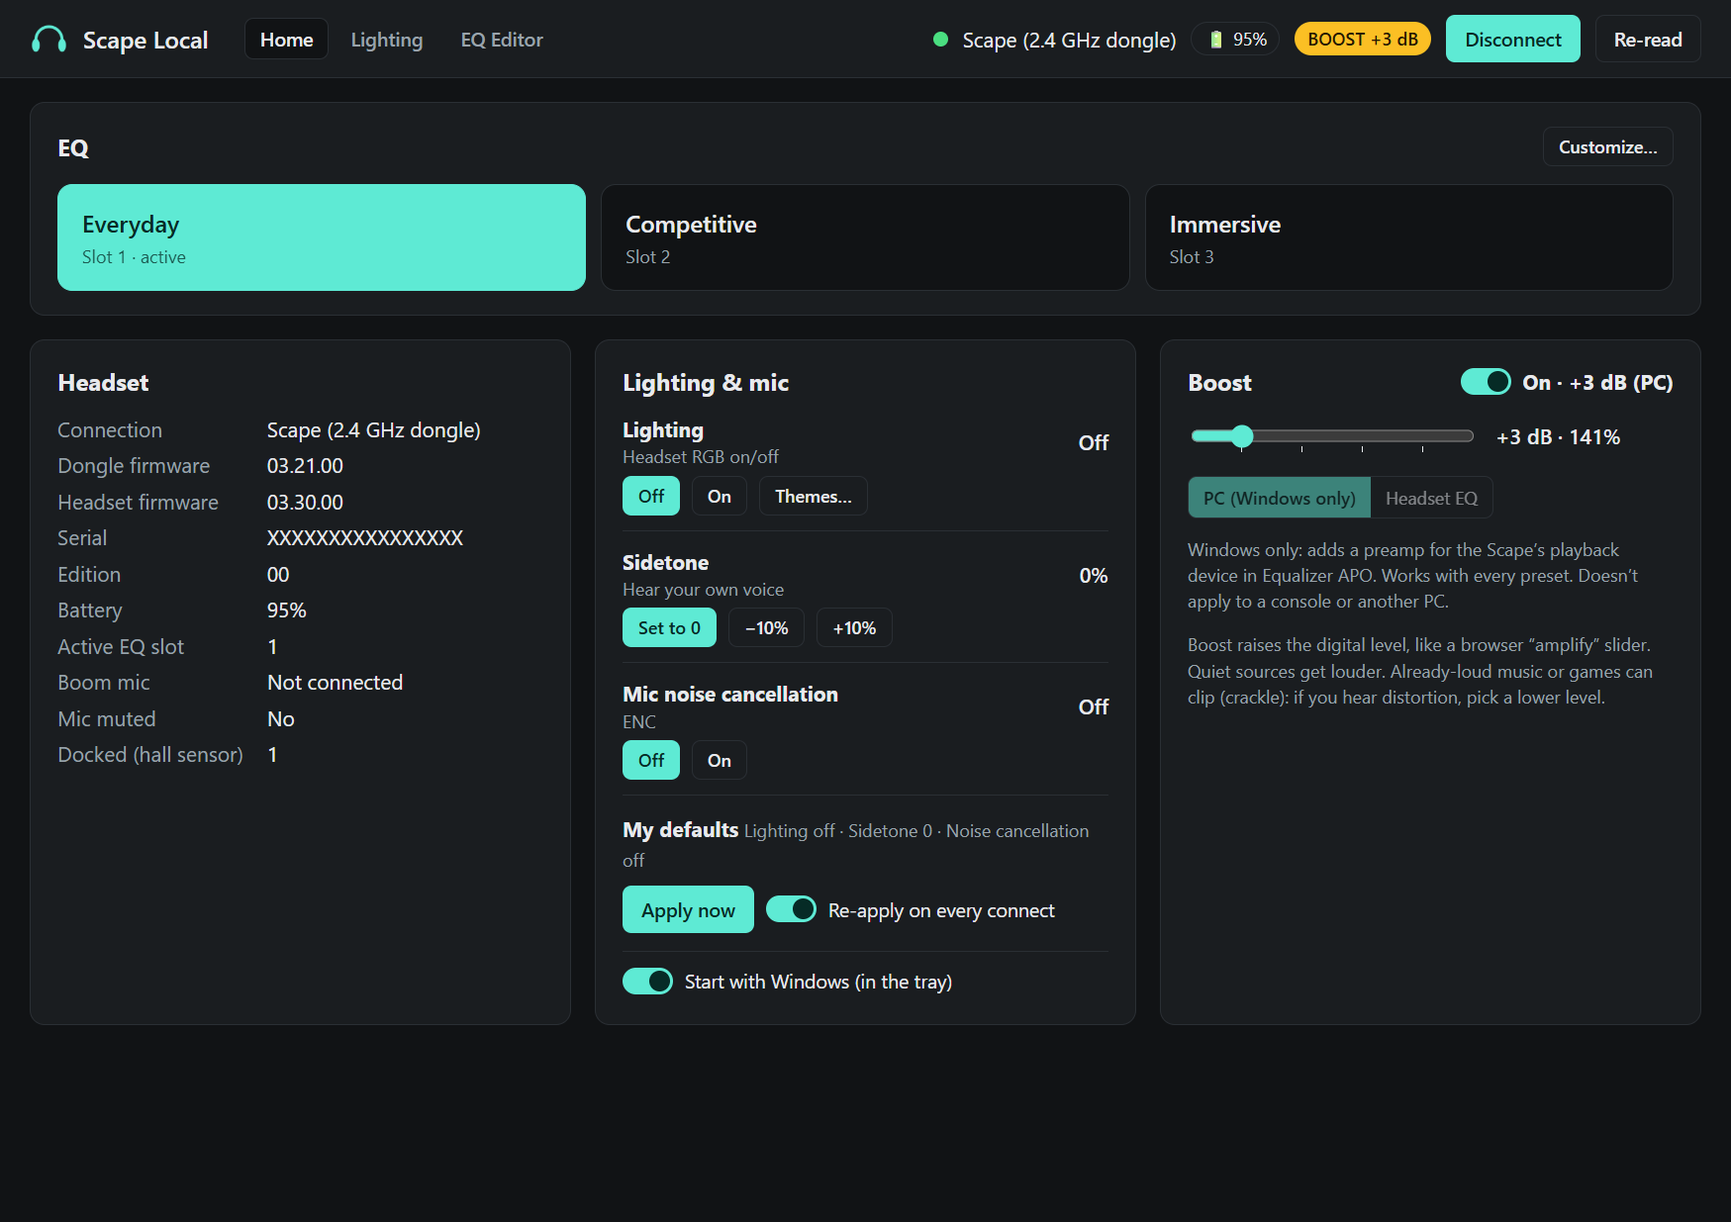
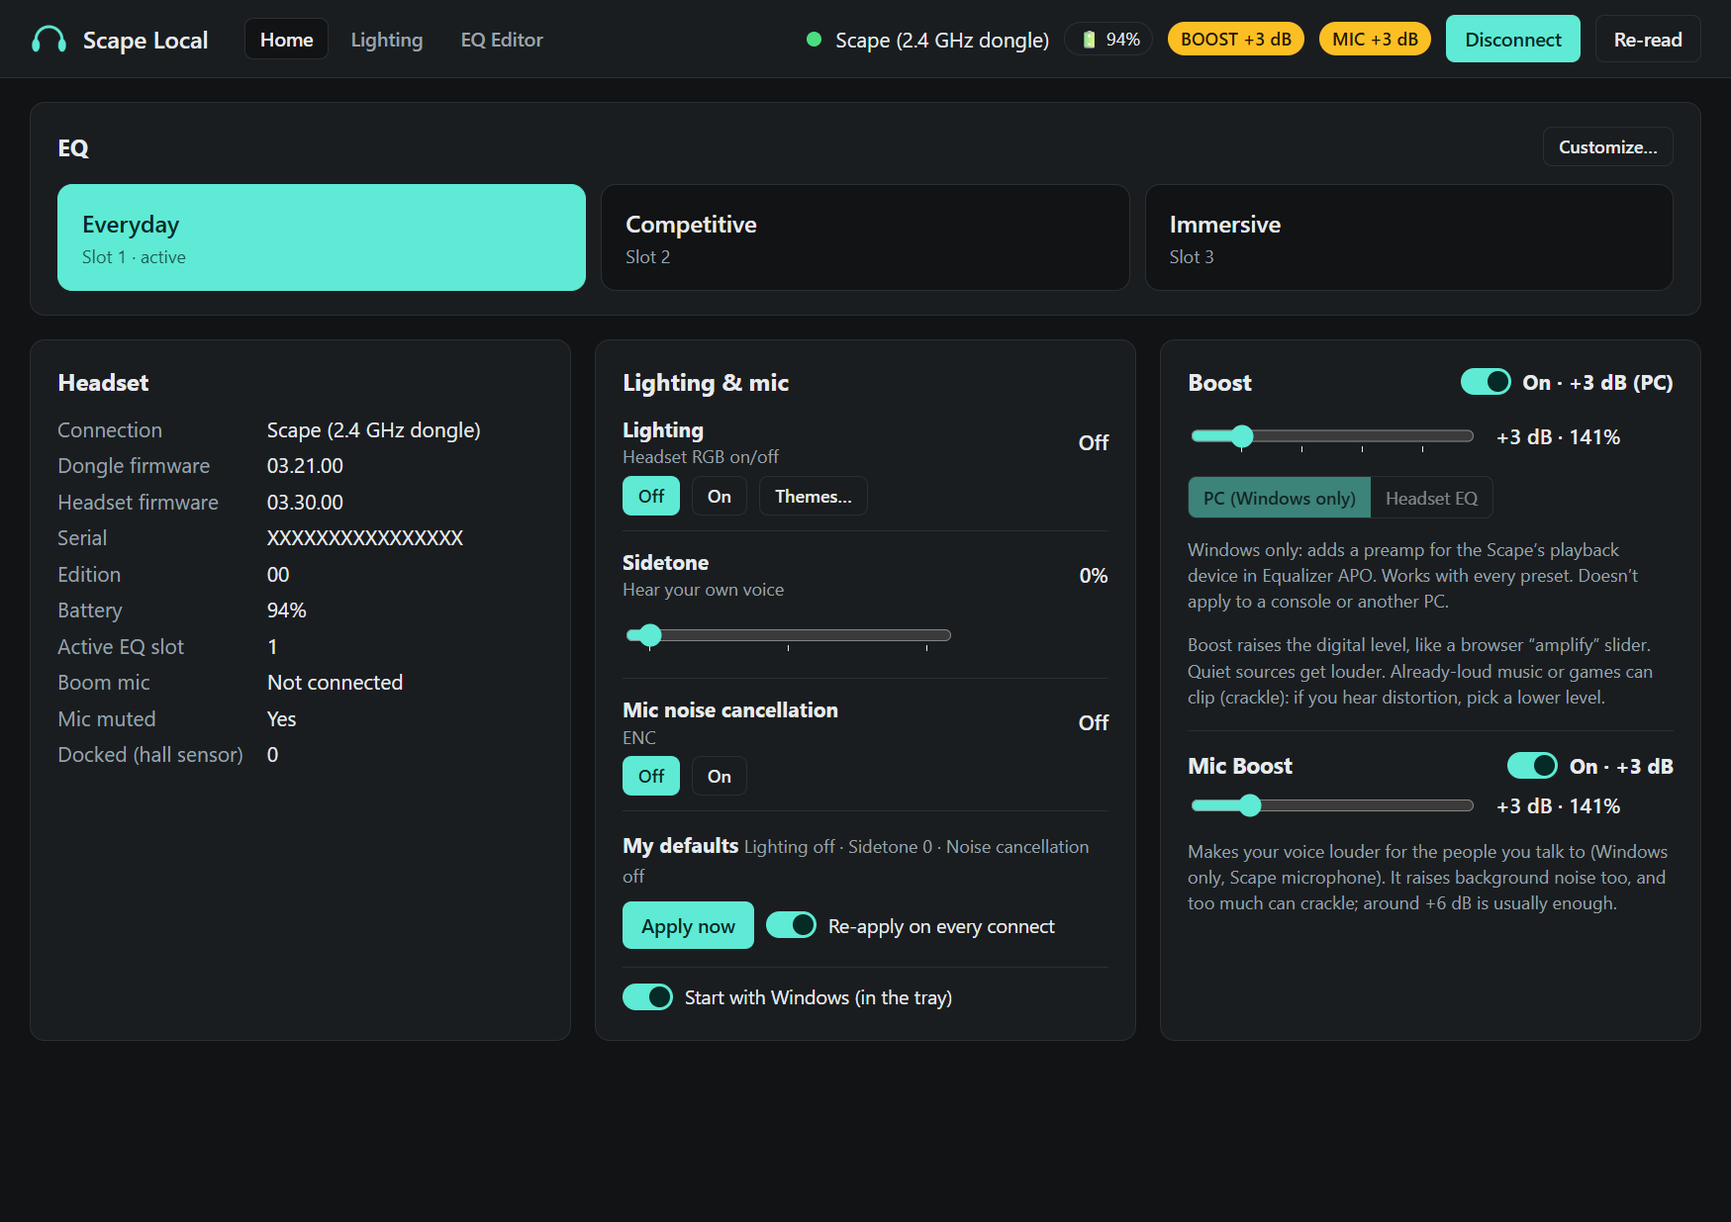
Mic Boost and a sidetone slider (v0.3.0)
- Mic Boost (+1..+12 dB): Equalizer APO preamp scoped to the Scape microphone,
  in the Boost card. Speaker and mic levels share one managed file with tagged
  sections; config.txt is restored byte for byte when both are off. 0.2.x boost
  files are read as speaker Boost.
- Sidetone buttons replaced with a 0-100 % slider (10 % steps, applied on release),
  like Adjust Pro. Verified on hardware: 0 -> 50 % = raw 75, back to 0.
- Docs: Mic Boost setup (tick the Scape mic on APO's Capture devices tab).
- 72 tests.

diff --git a/app/renderer/js/app.js b/app/renderer/js/app.js
@@ -1,7 +1,7 @@
 import { decodeEqCode, encodeEqCode, validateBands, describeBands, tidy, FILTER_LABELS, MAX_BANDS, LIMITS } from './eqcode.js';
 import { responseDb, logFreqs, coefficients, magnitudeDb } from './biquad.js';
 import { ScapeDevice } from './hid.js';
-import { cmd, hex, parse, ALLOWED, buildEqWrite, SIDETONE, BlockedCommandError, sidetoneStepPlan, sidetonePercent } from './protocol.js';
+import { cmd, hex, parse, ALLOWED, buildEqWrite, SIDETONE, BlockedCommandError, sidetonePlanTo } from './protocol.js';
 import { initLighting } from './lighting-ui.js';
 import { applyHeadsetBoost, headsetBoostBlocker, isBoostOf, isBoostBand, stripHeadsetBoost, HEADSET_MAX_DB, dbToPercent } from './boost.js';
 
@@ -100,7 +100,7 @@ function setBusy(b) {
 function updateWriteButtons() {
   const can = !!state.device && state.readDone && !state.busy && !!state.hs;
   const valid = validateBands(state.bands).length === 0;
-  document.querySelectorAll('[data-act], #btnApplyDefaults, .slot button[data-write]').forEach((b) => {
+  document.querySelectorAll('[data-act], #btnApplyDefaults, #rngSidetone, .slot button[data-write]').forEach((b) => {
     b.disabled = !can || (b.dataset.write === 'eq' && !valid);
   });
   $('btnRefresh').disabled = !state.device || state.busy;
@@ -509,7 +509,8 @@ function renderDefaults() {
     });
   mark('[data-act=lights]', (b) => (b.dataset.on === '1') === hs.lightsOn);
   mark('[data-act=enc]', (b) => (b.dataset.on === '1') === hs.encOn);
-  mark('[data-act=sidetone0]', () => hs.sidetoneRaw === 0);
+  const st = $('rngSidetone');
+  if (hs && hs.sidetonePct != null && document.activeElement !== st) st.value = String(hs.sidetonePct);
   $('chkEnforce').checked = state.enforce;
   updateWriteButtons();
   lighting?.render();
@@ -680,17 +681,6 @@ document.querySelectorAll('[data-act]').forEach((b) =>
       let res;
       if (act === 'lights') res = await d.write([cmd.lights(on)], `Turn headset lighting ${on ? 'on' : 'off'}`);
       else if (act === 'enc') res = await d.write([cmd.enc(on)], `Turn mic noise cancellation ${on ? 'on' : 'off'}`);
-      else if (act === 'sidetoneUp' || act === 'sidetoneDown') {
-        const raw = (await d.readState()).sidetoneRaw;
-        const plan = sidetoneStepPlan(raw, act === 'sidetoneUp' ? 1 : -1);
-        if (plan.target === raw) return;
-        if (plan.target === 0) await sidetoneToZero(d, []);
-        else await d.write(plan.packets, `Sidetone → ${sidetonePercent(plan.target)}%`);
-        res = { cancelled: false };
-      } else if (act === 'sidetone0') {
-        await sidetoneToZero(d, []);
-        res = { cancelled: false };
-      }
       if (!res || res.cancelled) return;
       await new Promise((r) => setTimeout(r, 300));
       state.hs = await d.readState();
@@ -699,6 +689,24 @@ document.querySelectorAll('[data-act]').forEach((b) =>
     });
   }),
 );
+
+// Sidetone slider: applied when released (each change is a few relative volume packets).
+$('rngSidetone').addEventListener('input', (e) => ($('valSidetone').textContent = `${e.target.value}%`));
+$('rngSidetone').addEventListener('change', (e) => {
+  const pct = Number(e.target.value);
+  guarded(async (d) => {
+    const raw = (await d.readState()).sidetoneRaw;
+    const plan = sidetonePlanTo(raw, pct);
+    if (plan.target === 0) {
+      if (raw !== 0) await sidetoneToZero(d, []);
+    } else if (plan.packets.length) await d.write(plan.packets, `Sidetone → ${pct}%`);
+    await new Promise((r) => setTimeout(r, 300));
+    state.hs = await d.readState();
+    renderDevice();
+    renderDefaults();
+  });
+  e.target.blur();
+});
 
 $('btnApplyDefaults').addEventListener('click', () => applyDefaults());
 $('chkEnforce').addEventListener('change', async (e) => {
@@ -782,6 +790,7 @@ async function refreshApo() {
 }
 
 function renderBoost() {
+  renderMicBoost();
   const lv = boostActiveLevel();
   const on = lv != null;
   // badge
@@ -995,6 +1004,111 @@ rng.addEventListener('change', () => {
   if (boost.headset) setBoost(true, lv);
   else if (boost.apo?.active) livePcLevel(lv);
 });
+// ---------------------------------------------------------------------------
+// Mic Boost (Windows only: Equalizer APO preamp on the Scape's microphone)
+// ---------------------------------------------------------------------------
+const MIC_MAX_DB = 12;
+let micLevel = store.get('scape.micBoostLevel', 6);
+let micTimer = null;
+let micDragging = false;
+
+function micActive() {
+  return boost.apo?.micLevel || null;
+}
+function showMicValue(db) {
+  const out = $('micBoostValue');
+  out.textContent = `+${db} dB · ${dbToPercent(db)}%`;
+  out.classList.toggle('hot', db > 9);
+}
+function renderMicBoost() {
+  const lv = micActive();
+  const on = lv != null;
+  const a = boost.apo;
+  $('chkMicBoost').checked = on;
+  $('micBoostState').textContent = on ? `On · +${lv} dB` : 'Off';
+  const badge = $('micBadge');
+  badge.textContent = on ? `MIC +${lv} dB` : '';
+  badge.classList.toggle('hidden', !on);
+  if (!micDragging) {
+    $('rngMicBoost').value = String(on ? lv : micLevel);
+    showMicValue(on ? lv : micLevel);
+  }
+  const setup = $('micBoostSetup');
+  setup.classList.add('hidden');
+  let canEnable = true;
+  if (!host) {
+    canEnable = false;
+    setup.replaceChildren(el('span', {}, 'Mic Boost needs the desktop app (not available in the browser).'));
+    setup.classList.remove('hidden');
+  } else if (!a) canEnable = false;
+  else if (!a.installed || !a.micAttached || !a.micEndpoints?.length) {
+    canEnable = on; // allow turning off
+    const mic = a.micEndpoints?.find((e) => e.active) || a.micEndpoints?.[0];
+    setup.replaceChildren(
+      el('strong', {}, !a.installed ? 'Equalizer APO is not installed' : !mic ? 'No Scape microphone found in Windows' : 'Equalizer APO is not attached to the Scape microphone yet'),
+      el('ol', {},
+        !a.installed ? el('li', {}, 'Install Equalizer APO (the Scape Local installer offers it).') : null,
+        el('li', {}, 'In the Configurator, open the ', el('strong', {}, 'Capture devices'), ' tab and tick ', el('code', {}, mic ? `${mic.name} (${mic.iface})` : 'the Scape’s microphone'), '.'),
+        el('li', {}, 'Restart Windows when asked, then reopen this panel.'),
+      ),
+      el('div', { class: 'actions' }, el('button', { class: 'btn small ghost', onclick: refreshApo }, 'Check again')),
+    );
+    setup.classList.remove('hidden');
+  } else if (!a.writable) {
+    canEnable = false;
+    setup.replaceChildren(el('span', {}, `Can’t write to ${a.configDir}.`));
+    setup.classList.remove('hidden');
+  }
+  $('chkMicBoost').disabled = !canEnable;
+}
+
+/** All APO writes (speaker and mic) go through apoChain so they can't overwrite each other. */
+async function setMicBoost(on, level) {
+  clearTimeout(micTimer);
+  try {
+    const p = apoChain.then(() => host.apoSetMic(on ? level : 0));
+    apoChain = p.catch(() => {});
+    boost.apo = await p;
+    toast(on ? `Mic Boost +${level} dB on` : 'Mic Boost off');
+  } catch (err) {
+    toast(`Mic Boost: ${err.message}`, true);
+  } finally {
+    renderBoost();
+  }
+}
+function liveMicLevel(db) {
+  clearTimeout(micTimer);
+  micTimer = setTimeout(() => {
+    apoChain = apoChain.then(async () => {
+      if (!micActive()) return; // turned off meanwhile
+      try {
+        boost.apo = await host.apoSetMic(db);
+      } catch (err) {
+        toast(`Mic Boost: ${err.message}`, true);
+      }
+      renderBoost();
+    });
+  }, 120);
+}
+$('chkMicBoost').addEventListener('change', (e) => {
+  const on = e.target.checked;
+  e.target.checked = !on; // reflect the real state once it succeeded
+  setMicBoost(on, Number($('rngMicBoost').value));
+});
+const micRng = $('rngMicBoost');
+micRng.addEventListener('pointerdown', () => (micDragging = true));
+micRng.addEventListener('input', () => {
+  const lv = Math.min(MIC_MAX_DB, Number(micRng.value));
+  showMicValue(lv);
+  if (micActive()) liveMicLevel(lv);
+});
+micRng.addEventListener('change', () => {
+  micDragging = false;
+  micLevel = Number(micRng.value);
+  store.set('scape.micBoostLevel', micLevel);
+  if (micActive()) liveMicLevel(micLevel);
+});
+
 document.querySelectorAll('input[name=boostWhere]').forEach((r) =>
   r.addEventListener('change', () => {
     boost.where = r.value;

diff --git a/app/renderer/index.html b/app/renderer/index.html
@@ -23,6 +23,7 @@
       <span id="connLabel">Not connected</span>
       <span id="battery" class="pill hidden"></span>
       <span id="boostBadge" class="pill boost hidden"></span>
+      <span id="micBadge" class="pill boost hidden"></span>
       <button id="btnConnect" class="btn">Connect</button>
       <button id="btnRefresh" class="btn ghost" disabled>Re-read</button>
     </div>
@@ -105,9 +106,8 @@
           <div><strong>Sidetone</strong><div class="muted small">Hear your own voice</div></div>
           <div class="val" id="valSidetone">—</div>
           <div class="actions">
-            <button class="btn small ghost" data-act="sidetone0" disabled>Set to 0</button>
-            <button class="btn small ghost" data-act="sidetoneDown" disabled>−10%</button>
-            <button class="btn small ghost" data-act="sidetoneUp" disabled>+10%</button>
+            <input type="range" id="rngSidetone" class="sidetone-range" min="0" max="100" step="10" value="0" list="sidetoneTicks" aria-label="Sidetone level" disabled />
+            <datalist id="sidetoneTicks"><option value="0"></option><option value="50"></option><option value="100"></option></datalist>
           </div>
         </div>
         <div class="row">
@@ -155,6 +155,19 @@
       <div id="boostSetup" class="setup hidden"></div>
       <div id="boostConflict" class="warn hidden"></div>
       <p class="muted small">Boost raises the digital level, like a browser “amplify” slider. Quiet sources get louder. Already-loud music or games can clip (crackle): if you hear distortion, pick a lower level.</p>
+
+      <div class="subsection" id="micBoostSection">
+        <div class="card-head">
+          <h3>Mic Boost</h3>
+          <label class="switch big"><input type="checkbox" id="chkMicBoost" /><span></span> <strong id="micBoostState">Off</strong></label>
+        </div>
+        <div class="slider">
+          <input type="range" id="rngMicBoost" min="1" max="12" step="1" value="6" aria-label="Mic Boost level in dB" />
+          <output id="micBoostValue" for="rngMicBoost">+6 dB · 200%</output>
+        </div>
+        <div id="micBoostSetup" class="setup hidden"></div>
+        <p class="muted small">Makes your voice louder for the people you talk to (Windows only, Scape microphone). It raises background noise too, and too much can crackle; around +6 dB is usually enough.</p>
+      </div>
     </section>
 
     <!-- ================= EQ ================= -->

diff --git a/app/tests/micboost.test.js b/app/tests/micboost.test.js
@@ -1,0 +1,43 @@
+import { test } from 'node:test';
+import assert from 'node:assert/strict';
+import { buildBoostFile, buildBoostFileFor, parseBoostFile, MIC_MAX_DB } from '../lib/apo.mjs';
+
+const SPK = { guid: '{1BFF3E25-F65A-4322-AE0C-F8E396CFD9E8}', name: 'Headset Earphone', iface: 'Fractal Scape Dongle' };
+const MIC = { guid: '{9E5BC244-9D79-498A-9938-07C937812CBF}', name: 'Headset Microphone', iface: 'Fractal Scape Dongle' };
+const EPS = { render: [SPK], capture: [MIC] };
+
+test('mic-only boost file is scoped to the Scape microphone', () => {
+  const f = buildBoostFileFor({ speakers: 0, mic: 6 }, EPS);
+  assert.match(f, /^Device: Fractal Scape Dongle Headset Microphone \{9e5bc244-9d79-498a-9938-07c937812cbf\}\r$/m);
+  assert.doesNotMatch(f, /Earphone/);
+  assert.equal((f.match(/^Preamp:/gm) || []).length, 1);
+  assert.deepEqual(parseBoostFile(f), { speakers: 0, mic: 6 });
+});
+
+test('speakers + mic: each section has its own device and level', () => {
+  const f = buildBoostFileFor({ speakers: 9, mic: 4 }, EPS);
+  const lines = f.split('\r\n');
+  const spkDev = lines.findIndex((l) => l.includes('Headset Earphone {'));
+  const micDev = lines.findIndex((l) => l.includes('Headset Microphone {'));
+  assert.ok(spkDev >= 0 && micDev > spkDev);
+  assert.ok(lines.slice(spkDev, micDev).includes('Preamp: 9 dB'));
+  assert.ok(lines.slice(micDev).includes('Preamp: 4 dB'));
+  assert.deepEqual(parseBoostFile(f), { speakers: 9, mic: 4 });
+});
+
+test('speaker-only file from the new builder parses as speakers only', () => {
+  assert.deepEqual(parseBoostFile(buildBoostFileFor({ speakers: 14 }, EPS)), { speakers: 14, mic: 0 });
+});
+
+test('0.2.x boost files (no section tags) are read as speaker Boost', () => {
+  assert.deepEqual(parseBoostFile(buildBoostFile(3, [SPK])), { speakers: 3, mic: 0 });
+  assert.deepEqual(parseBoostFile(null), { speakers: 0, mic: 0 });
+});
+
+test('mic boost validation', () => {
+  assert.equal(MIC_MAX_DB, 12);
+  assert.throws(() => buildBoostFileFor({ mic: 13 }, EPS));
+  assert.throws(() => buildBoostFileFor({ mic: -1 }, EPS));
+  assert.throws(() => buildBoostFileFor({ mic: 6 }, { render: [SPK], capture: [] }), /microphone/);
+  assert.throws(() => buildBoostFileFor({ speakers: 0, mic: 0 }, EPS));
+});

diff --git a/app/tests/core.test.js b/app/tests/core.test.js
@@ -182,3 +182,19 @@ test('sidetone percent table matches Adjust Pro', () => {
   assert.equal(sidetonePercent(100), 100);
   assert.equal(sidetonePercent(30), null);
 });
+
+test('sidetone slider plan: percent -> relative volume packets', async () => {
+  const { sidetonePlanTo } = await import('../renderer/js/protocol.js');
+  const h = (p) => p.packets.map((x) => hex(x));
+  assert.deepEqual(h(sidetonePlanTo(0, 10)), ['F1 34 02 32', 'F1 34 02 05']); // 0 -> raw 55 (same as verified on hardware)
+  assert.equal(sidetonePlanTo(0, 10).target, 55);
+  assert.deepEqual(h(sidetonePlanTo(55, 100)), ['F1 34 02 2D']); // +45
+  assert.deepEqual(h(sidetonePlanTo(100, 50)), ['F1 34 03 19']); // -25 -> raw 75
+  assert.deepEqual(sidetonePlanTo(75, 50).packets, []);
+  assert.equal(sidetonePlanTo(80, 0).target, 0); // 0 % goes through sidetoneToZero
+  for (let pct = 10; pct <= 100; pct += 10) {
+    const p = sidetonePlanTo(0, pct);
+    assert.equal(sidetonePercent(p.target), pct);
+    for (const pk of p.packets) checkPacket(pk);
+  }
+});

diff --git a/app/renderer/js/protocol.js b/app/renderer/js/protocol.js
@@ -192,6 +192,24 @@ export function sidetoneStepPlan(raw, dir) {
   return { target, packets };
 }
 
+/**
+ * Packets to move sidetone from `raw` to `pct` percent (10..100; 0 is handled by sidetoneToZero).
+ * Levels: 10 % = raw 55 … 100 % = raw 100 (5 units per 10 %). Volume steps are relative, ≤ 50 per packet.
+ */
+export function sidetonePlanTo(raw, pct) {
+  const target = pct <= 0 ? 0 : Math.min(100, 50 + Math.round(pct / 10) * 5);
+  const packets = [];
+  if (target !== 0) {
+    let diff = target - raw;
+    while (diff !== 0) {
+      const n = Math.min(50, Math.abs(diff));
+      packets.push(cmd.sidetone(diff > 0 ? SIDETONE.VOL_UP : SIDETONE.VOL_DOWN, n));
+      diff -= Math.sign(diff) * n;
+    }
+  }
+  return { target, packets };
+}
+
 /** Raw sidetone volume -> percent. Table from Adjust Pro: 0 -> 0 %, 55..100 -> 10..100 %. */
 export function sidetonePercent(raw) {
   if (raw === 0) return 0;

diff --git a/app/renderer/style.css b/app/renderer/style.css
@@ -199,3 +199,7 @@ body:not([data-view="home"]) .view-home, body:not([data-view="lighting"]) .view-
 .colors { display: flex; gap: 6px; flex-wrap: wrap; }
 .colors input[type=color] { width: 36px; height: 28px; padding: 0; border: 1px solid var(--line); border-radius: 6px; background: transparent; cursor: pointer; }
 #lightProgress { width: 160px; accent-color: var(--accent); }
+.subsection { margin-top: 14px; padding-top: 12px; border-top: 1px solid var(--line); }
+.subsection .card-head { margin-bottom: 6px; }
+.subsection h3 { margin: 0; font-size: 15px; }
+.sidetone-range { width: min(220px, 100%); accent-color: var(--accent); }

diff --git a/README.md b/README.md
@@ -26,7 +26,7 @@ re-implements the parts you need locally, after mapping the headset's HID protoc
 - **Lighting** (its own tab): all 10 Fractal themes (Northern lights, Sunset, Starfall, …) and custom patterns
   (Shift, Still, Breathe, Waves, Two color fade, Lava lamp) with your own colours, speed and
   brightness, plus a live preview of the 12 LEDs. Effects are rendered byte-identical to Adjust Pro.
-- Lighting on/off, **sidetone** (0 to 100 %), **mic noise cancellation** on/off. Optional
+- Lighting on/off, a **sidetone** slider (0 to 100 %), **mic noise cancellation** on/off. Optional
   "my defaults" that are re-applied every time the headset connects.
 - **Boost:** a slider from +1 to +14 dB (112 to 501 %), like a browser "amplify" extension but
   system-wide:
@@ -34,6 +34,8 @@ re-implements the parts you need locally, after mapping the headset's HID protoc
     [Equalizer APO](https://sourceforge.net/projects/equalizerapo/). Works with every preset.
   - **Headset mode:** adds a +X dB high-shelf band to the active slot, so it also works on a
     console or another PC (up to +12 dB; needs a preset with 4 bands or fewer).
+- **Mic Boost:** +1 to +12 dB for your microphone (Windows, through Equalizer APO on the Scape's
+  mic only), so people hear you louder in Discord, games and calls. Lives in the Boost card.
 - **Tray app:** starts hidden with Windows, battery level in the tray tooltip, works over the
   2.4 GHz dongle or USB-C.
 - **Offline and private:** no account, no telemetry. The app blocks all network requests.
@@ -50,7 +52,8 @@ Download `Scape-Local-Setup-<version>.exe` from [Releases](../../releases) and r
   **More info → Run anyway**. You can check the download against `SHA256SUMS.txt` in the release.
 - It installs per-user (no admin). For PC Boost it offers to install the bundled
   **Equalizer APO 1.4.2** (GPL; its source is attached to the release). In APO's Configurator,
-  tick only the Scape's playback device ("Headset Earphone (Fractal Scape Dongle)"), then restart.
+  tick only the Scape's playback device ("Headset Earphone (Fractal Scape Dongle)") and, for Mic
+  Boost, its microphone on the *Capture devices* tab, then restart.
 
 Full details, updating, uninstalling and rebuilding: [INSTALL.md](INSTALL.md).
 
@@ -89,7 +92,7 @@ loud content may clip (crackle) at high Boost levels.
 | [`PROTOCOL.md`](PROTOCOL.md) | The headset's HID protocol: report layout, every command, EQ write sequence, what is blocked and why |
 | [`app/renderer/js/`](app/renderer/js) | Plain ES modules: `protocol.js` (packets and allowlist), `hid.js` (WebHID), `eqcode.js` (share codes), `biquad.js` (RBJ filters), `lighting.js` (effect rendering and upload), `boost.js`, `app.js` / `lighting-ui.js` (UI) |
 | [`app/main.cjs`](app/main.cjs), [`apo-host.cjs`](app/apo-host.cjs) | Electron shell: tray, autostart, HID permissions, network block, Equalizer APO config |
-| [`app/tests/`](app/tests) | 66 Node tests: share codes (byte-exact), filter math, lighting effects (golden vectors), allowlist, Boost on/off round trips, APO config restore |
+| [`app/tests/`](app/tests) | 71 Node tests: share codes (byte-exact), filter math, lighting effects (golden vectors), allowlist, Boost and Mic Boost round trips, APO config restore |
 
 The UI also runs in Chrome or Edge without Electron (`node tools/serve.js app/renderer 8741`,
 then open http://localhost:8741) for the EQ tools and WebHID access. There's no tray or PC Boost there.

diff --git a/INSTALL.md b/INSTALL.md
@@ -1,7 +1,7 @@
 # Scape Local: install, rebuild and recovery
 
 Scape Local is an offline replacement for Fractal's Adjust Pro configurator for the **Fractal
-Scape** headset: EQ slots, lighting (themes and custom patterns), sidetone, mic noise cancellation, and **Boost**.
+Scape** headset: EQ slots, lighting (themes and custom patterns), sidetone, mic noise cancellation, **Boost** and **Mic Boost**.
 It runs from the system tray, starts with Windows, and needs no internet or account.
 
 Everything needed to reinstall it, even if Fractal's site, SourceForge or npm disappear, is in the
@@ -29,6 +29,8 @@ Everything needed to reinstall it, even if Fractal's site, SourceForge or npm di
    - In the **Configurator** (APO 1.4 calls it *Device Selector*), tick **only**
      `Headset Earphone (Fractal Scape Dongle)`. If you use the headset over USB-C, also tick its
      playback device when it appears.
+   - For **Mic Boost**, also open the *Capture devices* tab and tick
+     `Headset Microphone (Fractal Scape Dongle)`.
    - Restart Windows.
 3. Scape Local starts at the end of setup and from then on **with Windows, hidden in the tray**
    (headphone icon). Click the icon to open it; closing the window hides it again. Quit from the tray menu.
